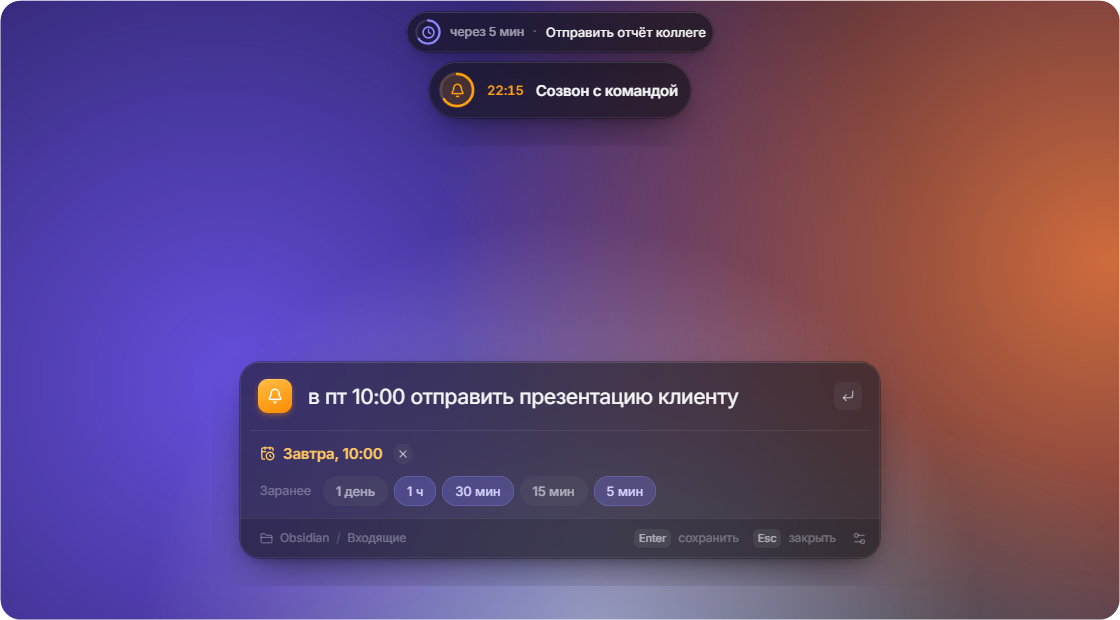
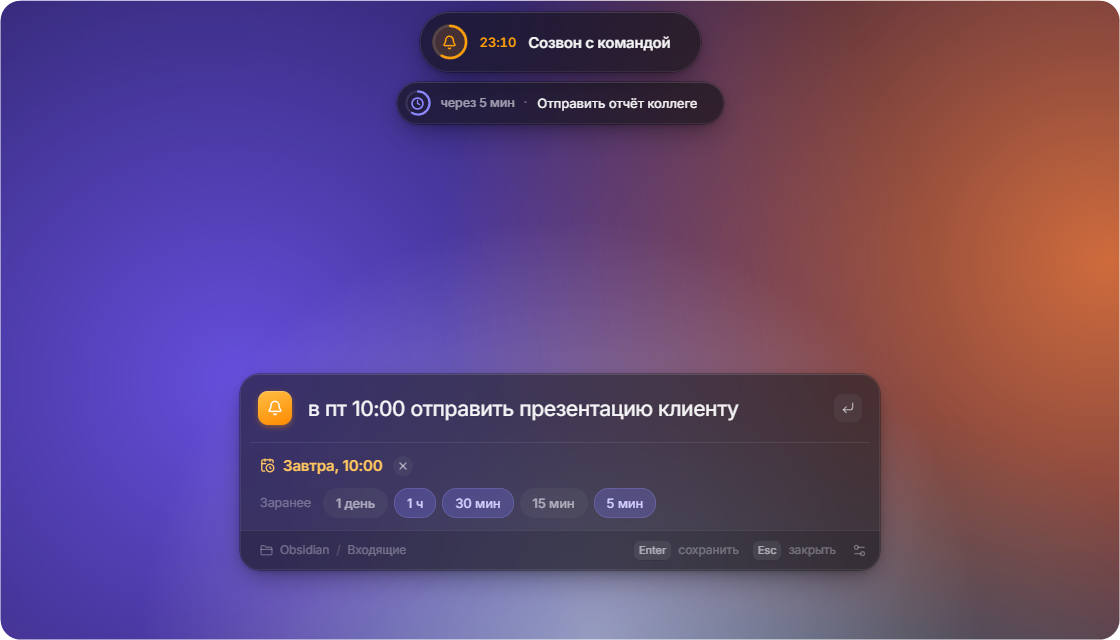
Fix clipped shadows, island spacing and focus theft by reminders
- Shadows fit the transparent window margin (40px) instead of being cut off
- Island width is measured from the full row, so the done button keeps 12px
  to the edge; more trailing space after text on collapsed islands
- Shared styles load before component styles (the add-offset button was off-centre)
- The popup window is shown once and never re-shown, so a reminder no longer
  steals focus from (and closes) the quick entry window
- Windows are created after app state is managed, fixing early command failures
- Fresh README screenshots

diff --git a/src/popup/Popup.tsx b/src/popup/Popup.tsx
@@ -6,12 +6,12 @@ import { formatTime, inLabel } from "../lib/format";
 import "./popup.css";
 
 // Geometry of the island stack, in CSS px. The glass panes follow these exact rects.
-const WINDOW_WIDTH = 640;
+const WINDOW_WIDTH = 760;
 const TOP = 12;
 const GAP = 10;
-const SHADOW_ROOM = 28;
-const EVENT_HEIGHT = 56;
-const HEADS_UP_HEIGHT = 40;
+const SHADOW_ROOM = 40; // --shadow-room
+const EVENT_HEIGHT = 60;
+const HEADS_UP_HEIGHT = 42;
 const LEAVE_MS = 380; // --glass-duration
 
 interface Card extends PopupCard {
@@ -33,7 +33,8 @@ export default function Popup() {
   const [measures, setMeasures] = useState<Record<string, Measure>>({});
   const [hovered, setHovered] = useState<string | null>(null);
   const [seconds, setSeconds] = useState(15);
-  const nodes = useRef<Record<string, { main: HTMLElement | null; actions: HTMLElement | null }>>({});
+  /** Natural-width row and its always-visible part, per island. */
+  const nodes = useRef<Record<string, { row: HTMLElement | null; main: HTMLElement | null }>>({});
   const lastRects = useRef<Record<string, GlassRect>>({});
 
   const pull = useCallback(async () => {
@@ -60,8 +61,10 @@ export default function Popup() {
     const next = { ...measures };
     for (const card of missing) {
       const n = nodes.current[card.id];
-      if (!n?.main) continue;
-      next[card.id] = { base: Math.ceil(n.main.offsetWidth), extra: Math.ceil(n.actions?.scrollWidth ?? 0) };
+      if (!n?.main || !n.row) continue;
+      // The row is max-content wide, so it includes every gap and padding of the actions.
+      const base = Math.ceil(n.main.getBoundingClientRect().width);
+      next[card.id] = { base, extra: Math.ceil(n.row.getBoundingClientRect().width) - base };
     }
     setMeasures(next);
   }, [cards, measures]);
@@ -137,11 +140,16 @@ export default function Popup() {
             onMouseLeave={() => setHovered((h) => (h === card.id ? null : h))}
             onClick={() => dismiss(card.id)}
           >
-            <div className="island-row">
+            <div
+              className="island-row"
+              ref={(el) => {
+                nodes.current[card.id] = { main: nodes.current[card.id]?.main ?? null, row: el };
+              }}
+            >
               <div
                 className="island-main"
                 ref={(el) => {
-                  nodes.current[card.id] = { ...nodes.current[card.id], main: el, actions: nodes.current[card.id]?.actions ?? null };
+                  nodes.current[card.id] = { row: nodes.current[card.id]?.row ?? null, main: el };
                 }}
               >
                 <span className="ring">
@@ -163,13 +171,7 @@ export default function Popup() {
                 <span className="island-text">{card.text}</span>
               </div>
               {event && (
-                <div
-                  className="island-actions"
-                  ref={(el) => {
-                    nodes.current[card.id] = { main: nodes.current[card.id]?.main ?? null, actions: el };
-                  }}
-                  onClick={(e) => e.stopPropagation()}
-                >
+                <div className="island-actions" onClick={(e) => e.stopPropagation()}>
                   <button className="island-button" onClick={() => snooze(card, 10)}>
                     10 мин
                   </button>

diff --git a/src/styles/base.css b/src/styles/base.css
@@ -17,8 +17,10 @@
   /* Glass tint and edges, shared by every panel. */
   --glass-tint: rgba(22, 22, 28, 0.58);
   --glass-edge: inset 0 0 0 0.5px rgba(255, 255, 255, 0.14), inset 0 1px 0 rgba(255, 255, 255, 0.07);
-  --glass-shadow: 0 0 0 0.5px rgba(0, 0, 0, 0.55), 0 18px 48px -14px rgba(0, 0, 0, 0.6),
-    0 6px 14px -6px rgba(0, 0, 0, 0.35);
+  /* Must fit inside --shadow-room: reaches ~32px below and ~22px to the sides. */
+  --glass-shadow: 0 0 0 0.5px rgba(0, 0, 0, 0.5), 0 10px 30px -8px rgba(0, 0, 0, 0.5),
+    0 2px 8px -2px rgba(0, 0, 0, 0.3);
+  --shadow-room: 40px;
   --panel-radius: 20px;
 
   /* Keep in sync with glass.rs (DURATION, EASE, POP_DURATION). */
@@ -68,7 +70,7 @@ input {
 
 /* Transparent margin around a glass panel; it is where the shadow is painted. */
 .shell {
-  padding: 28px;
+  padding: var(--shadow-room);
 }
 
 .panel {

diff --git a/src/popup/popup.css b/src/popup/popup.css
@@ -118,7 +118,7 @@
 
 .is-event .island-main {
   gap: 12px;
-  padding: 0 22px 0 10px;
+  padding: 0 30px 0 12px;
 }
 
 .is-event .ring {
@@ -170,8 +170,8 @@
 /* ---------- heads-up: smaller and quieter ---------- */
 
 .is-heads-up .island-main {
-  gap: 9px;
-  padding: 0 18px 0 8px;
+  gap: 10px;
+  padding: 0 26px 0 8px;
 }
 
 .is-heads-up .ring {
@@ -213,7 +213,7 @@
   align-items: center;
   gap: 6px;
   flex: none;
-  padding-right: 10px;
+  padding-right: 12px;
   opacity: 0;
   transform: translateX(-8px);
   transition: opacity 0.2s, transform var(--glass-duration) var(--glass-ease);
@@ -226,8 +226,8 @@
 }
 
 .island-button {
-  height: 32px;
-  padding: 0 13px;
+  height: 34px;
+  padding: 0 14px;
   border-radius: 999px;
   background: var(--fill-2);
   font-size: 13px;

diff --git a/src/main.tsx b/src/main.tsx
@@ -2,10 +2,11 @@ import React from "react";
 import ReactDOM from "react-dom/client";
 import { getCurrentWindow } from "@tauri-apps/api/window";
 import "@fontsource-variable/inter";
+// Shared styles first: component stylesheets override them.
+import "./styles/base.css";
 import Quick from "./quick/Quick";
 import Popup from "./popup/Popup";
 import Settings from "./settings/Settings";
-import "./styles/base.css";
 
 // All windows load the same bundle; the window label decides what to render.
 const label = getCurrentWindow().label;

diff --git a/src-tauri/src/lib.rs b/src-tauri/src/lib.rs
@@ -17,10 +17,11 @@ use tauri::{AppHandle, Emitter, LogicalSize, Manager, PhysicalPosition, WebviewW
 use tauri_plugin_autostart::ManagerExt;
 use tauri_plugin_global_shortcut::{GlobalShortcutExt, ShortcutState};
 
-/// Transparent margin around glass panels, leaves room for the CSS shadow.
-const SHADOW_INSET: f64 = 28.0;
+/// Transparent margin around glass panels, leaves room for the CSS shadow (`--shadow-room`).
+const SHADOW_INSET: f64 = 40.0;
 const QUICK_WIDTH: f64 = 640.0 + 2.0 * SHADOW_INSET;
-const POPUP_WIDTH: f64 = 640.0;
+/// Wide enough for the longest expanded island plus its shadow.
+const POPUP_WIDTH: f64 = 760.0;
 const SETTINGS_WIDTH: f64 = 560.0 + 2.0 * SHADOW_INSET;
 const PANEL_RADIUS: f64 = 20.0;
 
@@ -297,14 +298,17 @@ fn popup_take_pending(state: tauri::State<AppState>) -> Vec<Popup> {
     std::mem::take(&mut *state.pending.lock().unwrap())
 }
 
-/// Sizes the popup to its islands and pins it to the top centre; height 0 hides it.
+/// Sizes the popup to its islands and pins it to the top centre.
+///
+/// The popup window is shown once at startup and never hidden: showing a window activates
+/// it, which would steal focus from the quick window mid-sentence. With no islands it is
+/// one pixel tall and lets every click through.
 #[tauri::command]
 fn popup_layout(app: AppHandle, height: f64) {
-    let w = window(&app, "popup");
-    if height <= 0.0 {
-        let _ = w.hide();
-        return;
-    }
+    place_popup(&window(&app, "popup"), height.max(1.0));
+}
+
+fn place_popup(w: &WebviewWindow, height: f64) {
     let _ = w.set_size(LogicalSize::new(POPUP_WIDTH, height));
     if let Ok(Some(monitor)) = w.primary_monitor() {
         let area = monitor.work_area();
@@ -312,11 +316,9 @@ fn popup_layout(app: AppHandle, height: f64) {
         let x = area.position.x + (area.size.width as i32 - width) / 2;
         let _ = w.set_position(PhysicalPosition::new(x, area.position.y));
     }
-    if !w.is_visible().unwrap_or(false) {
-        let _ = w.set_ignore_cursor_events(true);
-        let _ = w.show();
-    }
 }
+
+
 
 /// A glass pane in CSS pixels relative to the window's client area.
 #[derive(Deserialize, Clone, Debug)]
@@ -345,8 +347,11 @@ fn spawn_popup_hit_testing(app: AppHandle) {
         let mut passthrough = true;
         loop {
             let popup = window(&app, "popup");
-            if !popup.is_visible().unwrap_or(false) {
-                passthrough = true;
+            if app.state::<AppState>().popup_rects.lock().unwrap().is_empty() {
+                if !passthrough {
+                    passthrough = true;
+                    let _ = popup.set_ignore_cursor_events(true);
+                }
                 std::thread::sleep(Duration::from_millis(250));
                 continue;
             }
@@ -471,6 +476,17 @@ pub fn run() {
                 pending: Mutex::new(vec![]),
                 popup_rects: Mutex::new(vec![]),
             });
+
+            // Windows are created only now, once the state their commands rely on exists
+            // (`"create": false` in tauri.conf.json); otherwise early invokes fail.
+            for config in app.config().app.windows.clone() {
+                tauri::WebviewWindowBuilder::from_config(app.handle(), &config)?.build()?;
+            }
+
+            let popup = window(app.handle(), "popup");
+            let _ = popup.set_ignore_cursor_events(true);
+            place_popup(&popup, 1.0);
+            let _ = popup.show();
 
             let settings = window(app.handle(), "settings");
             let settings_handle = settings.clone();
